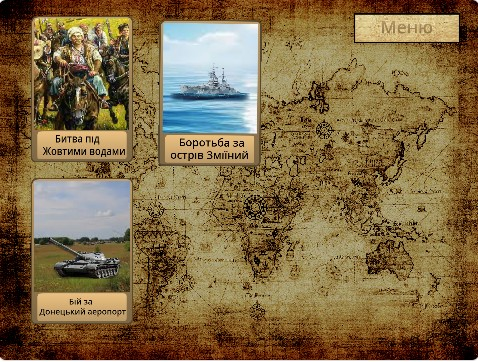
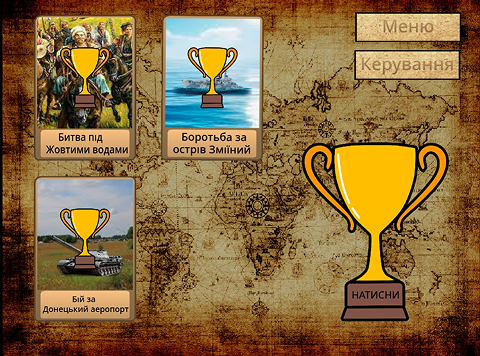
updated and added images

diff --git a/README.md b/README.md
@@ -17,7 +17,12 @@ Scratch-проєкт
 
   <a href="https://liutyiartur.github.io/scratch_heroes/files/index.html" target="_blank">
     <img src="https://raw.githubusercontent.com/liutyiartur/scratch_heroes/refs/heads/main/files/prev-3.jpg" alt="prev-3" style="border-radius: 16px;">  
-  </a>     
+  </a>    
+  
+  <a href="https://liutyiartur.github.io/scratch_heroes/files/index.html" target="_blank">
+    <img src="https://raw.githubusercontent.com/liutyiartur/scratch_heroes/refs/heads/main/files/prev-42.jpg" alt="prev-4" style="border-radius: 16px;">  
+  </a>
+  <br> 
 </details>
 
 # «Герої нескореної України: від Хмельницького до Коцюбайла «Да Вінчі»» (з нагоди 430-річчя з часу народження Богдана Хмельницького, гетьмана України, творця Української держави)
